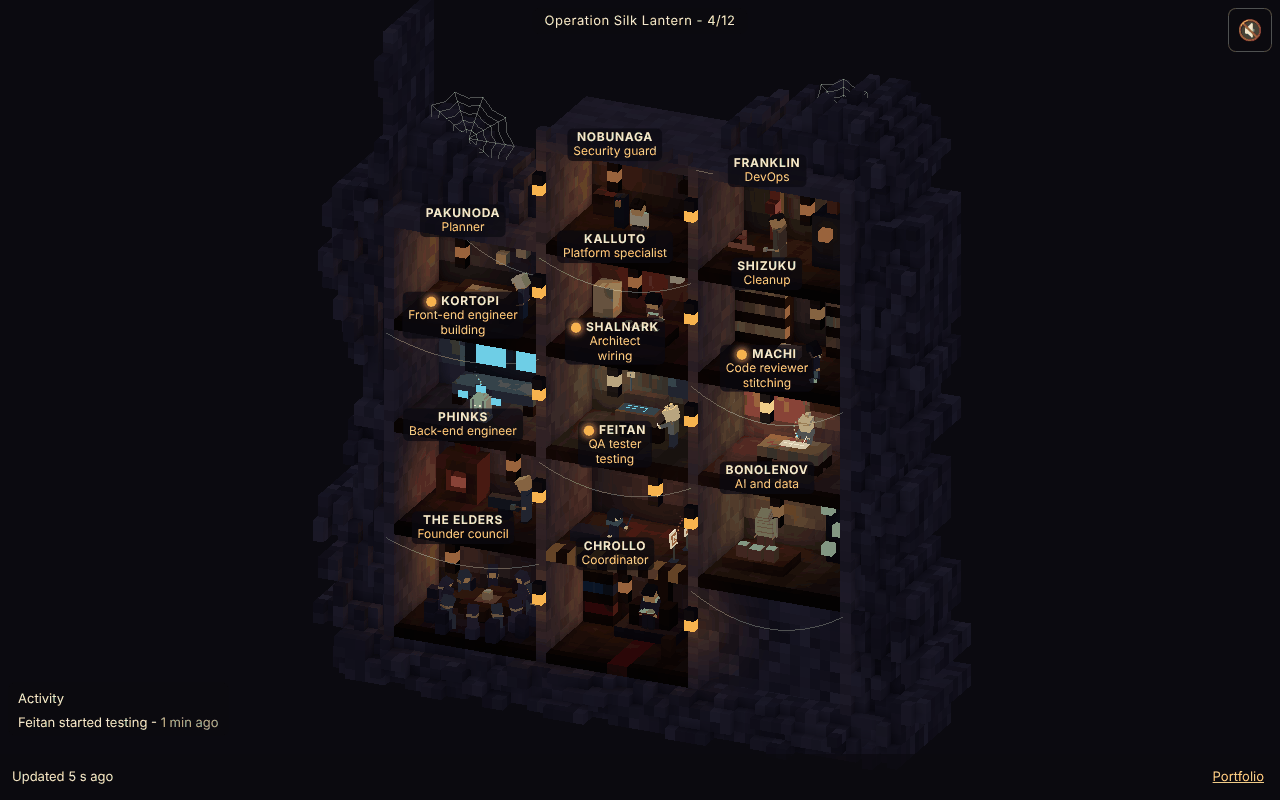
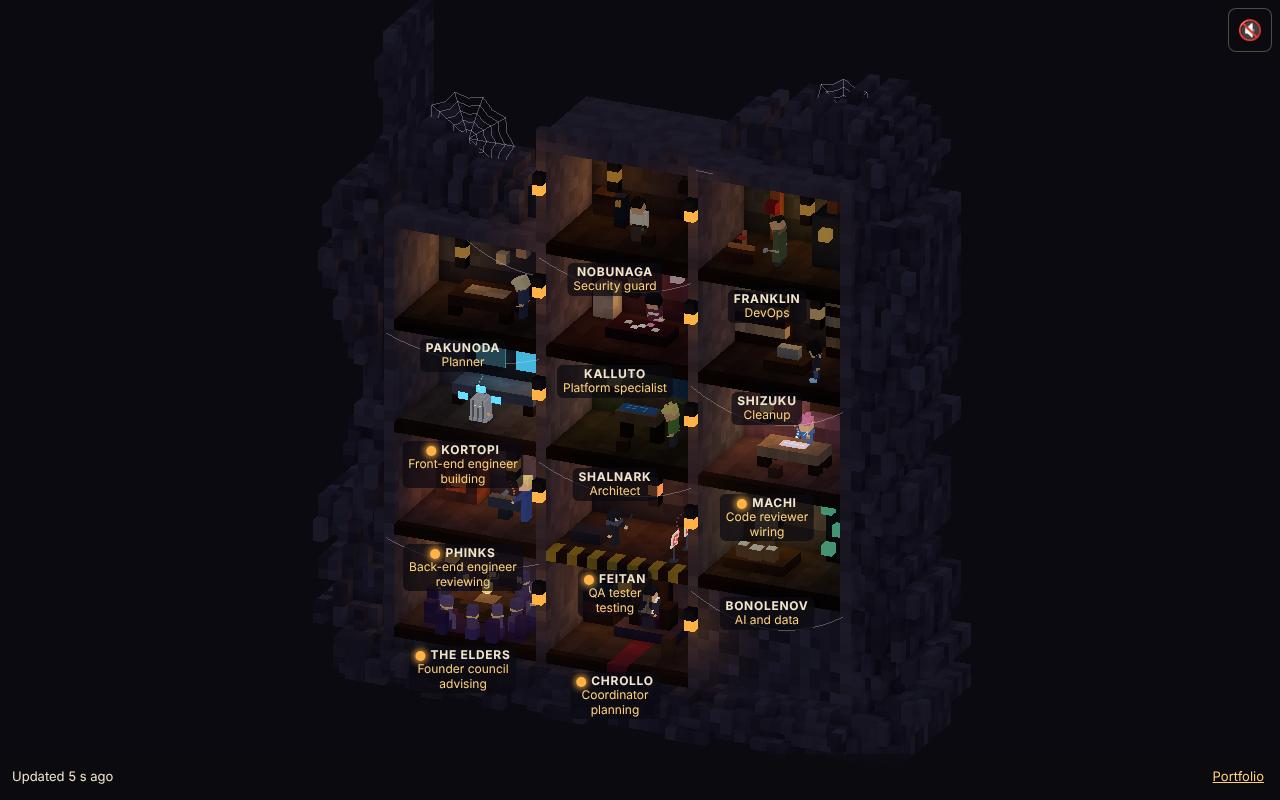
Move room name labels to the bottom of each room
Labels now sit along the floor edge on phone and desktop. Retaken
screenshots and updated label e2e tap point.

-C.L.

diff --git a/src/scene/voxel/hideout.ts b/src/scene/voxel/hideout.ts
@@ -28,7 +28,7 @@ export type RoomAnchors = {
   readonly figure: Vec3;
   /** Top surface for the role prop. */
   readonly prop: Vec3;
-  /** Above the room's open front, for the name label. */
+  /** Below the room's open front (on the floor edge), for the name label. */
   readonly label: Vec3;
   /** Wall lantern centre (glow position for RoomLights). */
   readonly light: Vec3;
@@ -76,7 +76,7 @@ function computeAnchors(member: Member): RoomAnchors {
   const anchors: RoomAnchors = {
     figure: add(o, s.figure),
     prop: add(o, s.prop),
-    label: [(box.min[0] + box.max[0]) / 2, box.max[1] + 0.5, box.max[2] + 0.5],
+    label: [(box.min[0] + box.max[0]) / 2, box.min[1] - 0.5, box.max[2] + 0.5],
     light: add(o, [s.lantern[0] + 0.5, s.lantern[1] + 0.5, s.lantern[2] + 0.5]),
     center: boxCenter(box),
     box,

diff --git a/e2e/labels.spec.ts b/e2e/labels.spec.ts
@@ -76,11 +76,11 @@ const roomPx = (page: Page) =>
     ),
   );
 
-/** A page point inside a room: just under its label (the label sits above the room's open front). */
+/** A page point inside a room: just above its label (the label sits on the room's floor edge). */
 async function roomPoint(page: Page, id: string) {
   const b = await label(page, id).boundingBox();
   if (!b) throw new Error(`no box for ${id}`);
-  return { x: b.x + b.width / 2, y: b.y + b.height + (await roomPx(page)) * 0.3 };
+  return { x: b.x + b.width / 2, y: b.y - (await roomPx(page)) * 0.3 };
 }
 
 async function tapRoom(page: Page, id: string) {

diff --git a/src/ui/room.css b/src/ui/room.css
@@ -185,7 +185,7 @@
   clip-path: inset(50%);
 }
 
-/* Phone portrait: name only, one line, tucked into the room's ceiling strip so the
+/* Phone portrait: name only, one line, tucked along the room's floor edge so the
    figure and room stay visible. Role and verb stay in the accessibility tree and the panel. */
 @media (max-width: 600px), (max-height: 500px) {
   /* While a panel is open only its own label shows (opacity, not visibility, so
@@ -194,7 +194,7 @@
     opacity: 0;
   }
   .room-labels {
-    --label-y: 2px;
+    --label-y: 0px;
   }
   .room-label {
     max-width: none;

diff --git a/src/scene/Labels.tsx b/src/scene/Labels.tsx
@@ -179,7 +179,7 @@ export function Labels() {
       const el = kids[i];
       if (!m3 || !(el instanceof HTMLElement)) continue;
       scratch.set(...ROOM_ANCHORS[m3.id].label).project(cam);
-      el.style.transform = `translate(${Math.round((scratch.x * 0.5 + 0.5) * size.width)}px,${Math.round((-scratch.y * 0.5 + 0.5) * size.height)}px) translate(-50%,var(--label-y,-100%))`;
+      el.style.transform = `translate(${Math.round((scratch.x * 0.5 + 0.5) * size.width)}px,${Math.round((-scratch.y * 0.5 + 0.5) * size.height)}px) translate(-50%,var(--label-y,0px))`;
     }
   });
 

diff --git a/docs/screenshots/README.md b/docs/screenshots/README.md
@@ -25,7 +25,7 @@ Honest notes per image (what looks good, what looks off):
 - desktop-5: the zoom-in on the panel is strong; panel fields good. The Feitan label at bottom right is cut by the footer bar.
 - desktop-6: no scene change when offline, only the footer note (a stray "- " before the note was fixed in this branch; this image is after the fix).
 - desktop-7: toggle clearly on; no other visual change.
-- phone-1: labels are name-only, one line, in each room's ceiling strip, 12 px text; they no longer crowd the rooms. The scene is still small with a large empty band above and below.
+- phone-1: labels are name-only, one line, along each room's floor edge, 12 px text; they no longer crowd the rooms. The scene is still small with a large empty band above and below.
 - phone-2: working members get an orange dot before the name; verbs and roles are no longer drawn (they stay in the DOM, visually hidden, and in the panel), so labels stay one line. Kortopi's label touches the edge of its monitor; ticker collapsed to "Activity".
 - phone-3: two-line, four-row banner pushes down, no overlap with the scene; the ticker is collapsed.
 - phone-4: Phinks and The Elders (working, no write for 4.5 h) get a dashed outline and a "?" in the label, much easier to see than the old tiny "?" over the figure (that one still shows next to Phinks). The dashed Phinks label sits tight against the figure's "?" and lantern; "no recent update" text is now only in the panel.
